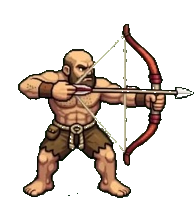
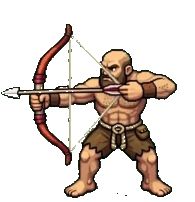
BUILD 391: player layered on top in iso field (grass/decor never covers them); bow side frames re-normalized to face-left (bow left/right was reversed); facing-signature pixel regression test

diff --git a/index.html b/index.html
@@ -1,1 +1,1 @@
-<!doctype html><html lang="en"><head><!-- BUILD309-VIEWPORT-FIX-MARKER --><meta charset="UTF-8"><meta name="viewport" content="width=device-width, initial-scale=1.0, maximum-scale=1.0, user-scalable=no"><meta name="theme-color" content="#17362e"><link rel="icon" type="image/svg+xml" href="favicon.svg"><meta name="description" content="Explore Mosslight Crossing in the Adventure Game field journal."><title>Adventure Game — Mosslight Crossing</title></head><body><div id="root"></div><script>window.__AG_BUILD="390";(function(){var shown=false;function code(m){var h=0,s=window.__AG_BUILD+"|"+m;for(var i=0;i<s.length;i++){h=(Math.imul(h,31)+s.charCodeAt(i))|0;}return "AG"+window.__AG_BUILD+"-"+(h>>>0).toString(36).toUpperCase().padStart(6,"0").slice(-5);}function show(m,k){if(shown||window.__agBooted)return;shown=true;var d=document.createElement("div");d.id="ag-boot-crash";var p=document.createElement("div");p.className="ag-boot-panel";var t=document.createElement("div");t.className="ag-boot-title";t.textContent="\u26a0 GAME FAILED TO START";var c=document.createElement("div");c.className="ag-boot-code";c.textContent=code(String(m));var g=document.createElement("div");g.className="ag-boot-msg";g.textContent=String(m).slice(0,300);var n=document.createElement("div");n.className="ag-boot-kind";n.textContent=k;var b=document.createElement("button");b.textContent="Reload game";b.onclick=function(){location.reload();};p.appendChild(t);p.appendChild(c);p.appendChild(g);p.appendChild(n);p.appendChild(b);d.appendChild(p);document.body.appendChild(d);}window.addEventListener("error",function(e){if(e.target&&e.target!==window)return;show(e.message||"script error","boot error");},true);window.addEventListener("unhandledrejection",function(e){var r=e.reason;show((r&&(r.message||r))||"rejection","boot rejection");});setTimeout(function(){if(!window.__agBooted)show("The game did not finish loading in time.","load timeout");},20000);})();</script><style>#ag-boot-crash{position:fixed;inset:0;z-index:99999;background:#0d1a16;display:flex;align-items:center;justify-content:center;padding:24px}#ag-boot-crash .ag-boot-panel{max-width:420px;width:100%;background:#14261f;border:1px solid #2c4a3e;border-radius:12px;padding:24px;text-align:center;color:#e8f0e9;font-family:system-ui,sans-serif}#ag-boot-crash .ag-boot-title{font-size:20px;font-weight:800;letter-spacing:.5px}#ag-boot-crash .ag-boot-code{font-family:monospace;font-size:22px;color:#ffd75e;margin:12px 0;letter-spacing:1px}#ag-boot-crash .ag-boot-msg{font-size:13px;color:#b9c9bd;word-break:break-word}#ag-boot-crash .ag-boot-kind{font-size:11px;color:#7d8f83;margin-top:8px;text-transform:uppercase;letter-spacing:1px}#ag-boot-crash button{margin-top:16px;background:#e8a33d;border:0;border-radius:8px;padding:10px 22px;font-size:15px;font-weight:700;color:#231603;cursor:pointer}</style><script type="module" src="/src/main.tsx"></script></body></html>
+<!doctype html><html lang="en"><head><!-- BUILD309-VIEWPORT-FIX-MARKER --><meta charset="UTF-8"><meta name="viewport" content="width=device-width, initial-scale=1.0, maximum-scale=1.0, user-scalable=no"><meta name="theme-color" content="#17362e"><link rel="icon" type="image/svg+xml" href="favicon.svg"><meta name="description" content="Explore Mosslight Crossing in the Adventure Game field journal."><title>Adventure Game — Mosslight Crossing</title></head><body><div id="root"></div><script>window.__AG_BUILD="391";(function(){var shown=false;function code(m){var h=0,s=window.__AG_BUILD+"|"+m;for(var i=0;i<s.length;i++){h=(Math.imul(h,31)+s.charCodeAt(i))|0;}return "AG"+window.__AG_BUILD+"-"+(h>>>0).toString(36).toUpperCase().padStart(6,"0").slice(-5);}function show(m,k){if(shown||window.__agBooted)return;shown=true;var d=document.createElement("div");d.id="ag-boot-crash";var p=document.createElement("div");p.className="ag-boot-panel";var t=document.createElement("div");t.className="ag-boot-title";t.textContent="\u26a0 GAME FAILED TO START";var c=document.createElement("div");c.className="ag-boot-code";c.textContent=code(String(m));var g=document.createElement("div");g.className="ag-boot-msg";g.textContent=String(m).slice(0,300);var n=document.createElement("div");n.className="ag-boot-kind";n.textContent=k;var b=document.createElement("button");b.textContent="Reload game";b.onclick=function(){location.reload();};p.appendChild(t);p.appendChild(c);p.appendChild(g);p.appendChild(n);p.appendChild(b);d.appendChild(p);document.body.appendChild(d);}window.addEventListener("error",function(e){if(e.target&&e.target!==window)return;show(e.message||"script error","boot error");},true);window.addEventListener("unhandledrejection",function(e){var r=e.reason;show((r&&(r.message||r))||"rejection","boot rejection");});setTimeout(function(){if(!window.__agBooted)show("The game did not finish loading in time.","load timeout");},20000);})();</script><style>#ag-boot-crash{position:fixed;inset:0;z-index:99999;background:#0d1a16;display:flex;align-items:center;justify-content:center;padding:24px}#ag-boot-crash .ag-boot-panel{max-width:420px;width:100%;background:#14261f;border:1px solid #2c4a3e;border-radius:12px;padding:24px;text-align:center;color:#e8f0e9;font-family:system-ui,sans-serif}#ag-boot-crash .ag-boot-title{font-size:20px;font-weight:800;letter-spacing:.5px}#ag-boot-crash .ag-boot-code{font-family:monospace;font-size:22px;color:#ffd75e;margin:12px 0;letter-spacing:1px}#ag-boot-crash .ag-boot-msg{font-size:13px;color:#b9c9bd;word-break:break-word}#ag-boot-crash .ag-boot-kind{font-size:11px;color:#7d8f83;margin-top:8px;text-transform:uppercase;letter-spacing:1px}#ag-boot-crash button{margin-top:16px;background:#e8a33d;border:0;border-radius:8px;padding:10px 22px;font-size:15px;font-weight:700;color:#231603;cursor:pointer}</style><script type="module" src="/src/main.tsx"></script></body></html>

diff --git a/scripts/simulate.ts b/scripts/simulate.ts
@@ -2949,6 +2949,85 @@ console.log('Testing examine system...');
   assert(BARBARIAN_ATTACK_MS === 480, 'barbarian attack clip window must be 480ms');
 }
 
+// ---- BUILD 391: side-view facing convention (pixel regression) ----
+// All barbarian side frames must face screen-left; the renderer mirrors the
+// side art when facing=right. The supplied bow sheet faced right, which made
+// left/right appear reversed with the bow equipped (fixed by re-normalizing
+// the bow side frames). This test re-decodes the PNGs and fails if any side
+// frame drifts from its recorded facing signature.
+import { inflateSync } from 'node:zlib';
+{
+  function readPngRgba(path: string): { w: number; h: number; px: Uint8Array } {
+    const buf: Buffer = readFileSyncSprites(path);
+    let pos = 8, w = 0, h = 0, bitDepth = 0, colorType = 0;
+    const idat: Buffer[] = [];
+    while (pos + 8 <= buf.length) {
+      const len = buf.readUInt32BE(pos);
+      const type = buf.toString('ascii', pos + 4, pos + 8);
+      const data = buf.subarray(pos + 8, pos + 8 + len);
+      if (type === 'IHDR') {
+        w = data.readUInt32BE(0); h = data.readUInt32BE(4);
+        bitDepth = data[8]; colorType = data[9];
+      } else if (type === 'IDAT') idat.push(Buffer.from(data));
+      else if (type === 'IEND') break;
+      pos += 12 + len;
+    }
+    if (bitDepth !== 8 || colorType !== 6) throw new Error(`unsupported PNG ${path}`);
+    const raw = inflateSync(Buffer.concat(idat));
+    const stride = w * 4;
+    const px = new Uint8Array(w * h * 4);
+    const prev = new Uint8Array(stride), cur = new Uint8Array(stride);
+    let p = 0;
+    for (let y = 0; y < h; y++) {
+      const f = raw[p++];
+      for (let x = 0; x < stride; x++) {
+        const v = raw[p++];
+        const left = x >= 4 ? cur[x - 4] : 0;
+        const up = prev[x];
+        const upLeft = x >= 4 ? prev[x - 4] : 0;
+        let r: number;
+        if (f === 0) r = v;
+        else if (f === 1) r = (v + left) & 255;
+        else if (f === 2) r = (v + up) & 255;
+        else if (f === 3) r = (v + ((left + up) >> 1)) & 255;
+        else if (f === 4) {
+          const pa = Math.abs(up - upLeft), pb = Math.abs(left - upLeft), pc = Math.abs(left + up - 2 * upLeft);
+          r = (v + (pa <= pb && pa <= pc ? left : pb <= pc ? up : upLeft)) & 255;
+        } else throw new Error(`bad PNG filter ${f} in ${path}`);
+        cur[x] = r;
+      }
+      px.set(cur, y * stride);
+      prev.set(cur);
+    }
+    return { w, h, px };
+  }
+  function sideCentroidX(px: Uint8Array, w: number, h: number): number {
+    let sx = 0, n = 0;
+    for (let y = 0; y < h; y += 2) for (let x = 0; x < w; x += 2) {
+      const i = (y * w + x) * 4;
+      if (px[i + 3] > 40 && px[i] + px[i + 1] + px[i + 2] < 380) { sx += x; n++; }
+    }
+    return n === 0 ? 0.5 : sx / n / w;
+  }
+  const barbManifest = JSON.parse(readFileSyncSprites('public/barbarian/manifest.json', 'utf8'));
+  const sigs = barbManifest._conventions?.sideCentroidX as Record<string, number> | undefined;
+  assert(sigs && Object.keys(sigs).length >= 20,
+    'barbarian manifest must record side-view facing signatures for every side frame');
+  for (const [file, recorded] of Object.entries(sigs)) {
+    const { w, h, px } = readPngRgba(`public/barbarian/${file}`);
+    const cx = sideCentroidX(px, w, h);
+    assert(Math.abs(cx - recorded) < 0.015,
+      `${file}: facing signature drifted (recorded ${recorded}, now ${cx.toFixed(4)}) — side art may be reversed again`);
+    assert(cx < 0.52,
+      `${file}: side view must face screen-left (dark-pixel centroid ${cx.toFixed(3)})`);
+  }
+  // Player layering invariant: the iso field must draw the player in a final
+  // pass after the depth-sorted drawables so grass/decor never covers them.
+  const isoFieldSrc = readFileSyncSprites('src/game/iso/IsoFieldView.tsx', 'utf8');
+  assert(isoFieldSrc.includes('for (const d of playerDrawables) d.draw(g, nowMs);'),
+    'IsoFieldView must draw the player in a final top-most pass (playerDrawables)');
+}
+
 // ---- Results ----
 console.log(`\n${'='.repeat(50)}`);
 console.log(`${'='.repeat(50)}`);

diff --git a/src/game/iso/IsoFieldView.tsx b/src/game/iso/IsoFieldView.tsx
@@ -456,12 +456,16 @@ export default function IsoFieldView({ chunk, position, townsfolk, onExit, onTap
       for (const npc of live.folk) {
         drawPerson(drawables, npc.position.x, npc.position.y, npc.facing as Face4, npc.moving, npc.id, nowMs, npc.id);
       }
-      // player
-      drawPerson(drawables, live.px, live.py, playerFace.f, playerMoving, 0, nowMs, 'player', { attackT: playerAttackT });
+      // player — BUILD 391: layered on top of everything. The player is drawn
+      // in a final pass after the depth-sorted world so grass tufts, trees
+      // and buildings never cover them.
+      const playerDrawables: Drawable[] = [];
+      drawPerson(playerDrawables, live.px, live.py, playerFace.f, playerMoving, 0, nowMs, 'player', { attackT: playerAttackT });
       for (const k of charAnims.keys()) if (!seenAnims.has(k)) charAnims.delete(k);
 
       drawables.sort((a, b) => a.depth - b.depth);
       for (const d of drawables) d.draw(g, nowMs);
+      for (const d of playerDrawables) d.draw(g, nowMs);
 
       g.restore();
     };
